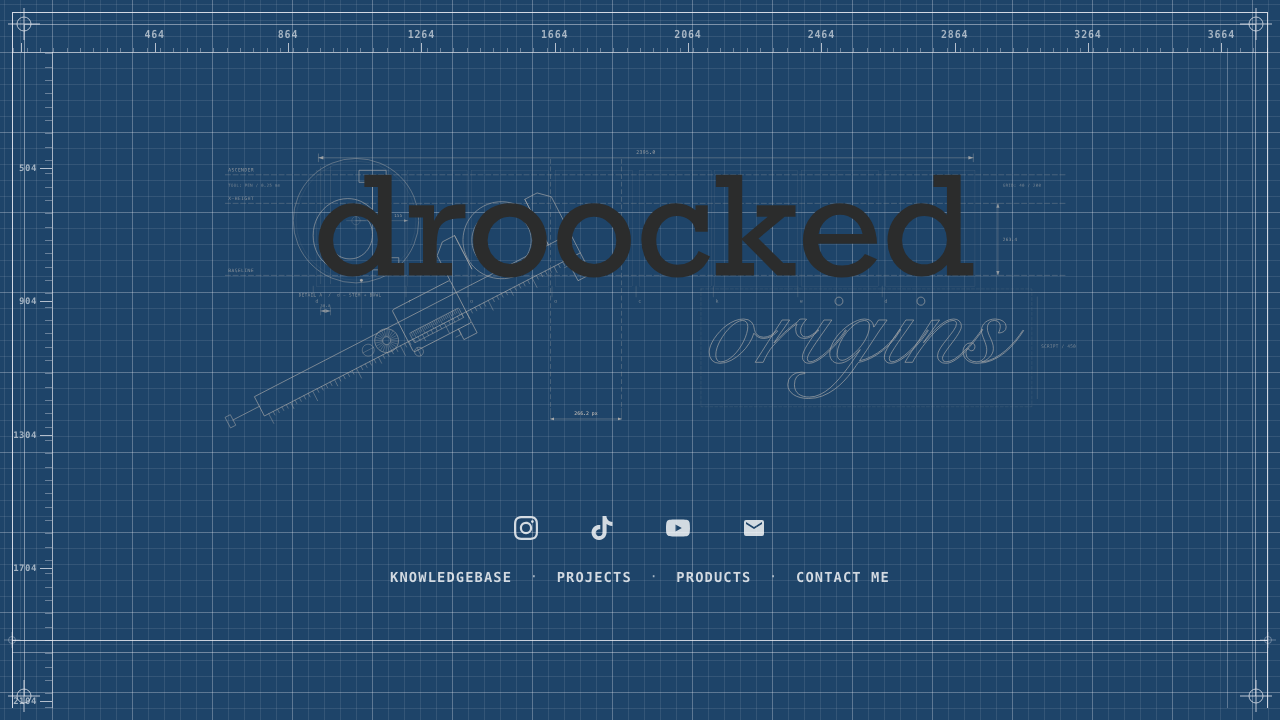
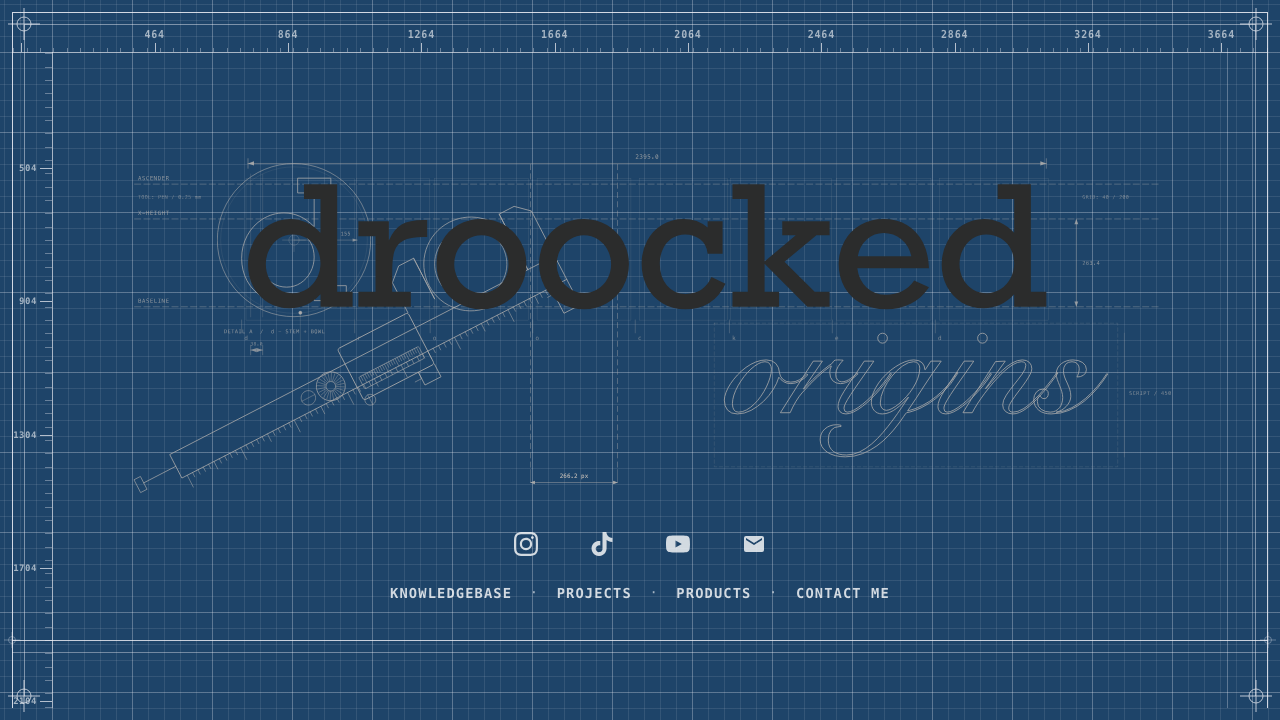
fix: restore full-scale homepage header

diff --git a/src/styles/components.css b/src/styles/components.css
@@ -45,14 +45,11 @@
   flex-direction: column;
 }
 
-/* Homepage: the composition is centred in the sheet, so the horizontal
-   inset is mirrored and the last grid cell is left to SheetEnd. The inset
-   scales from the sheet gutter (phones) to the full content inset. */
+/* Homepage: the header composition spans the viewport so the wordmark keeps
+   its 62.2% of 3840 scale. Horizontal padding is zero; the top and bottom
+   insets stay inside the sheet. */
 .layout-home .home-shell__main {
-  padding:
-    var(--content-y)
-    clamp(var(--sheet-gutter), 9vw, var(--content-x))
-    var(--grid-minor);
+  padding: var(--content-y) 0 var(--grid-minor);
 }
 
 /* -------------------------------------------------------------------------
